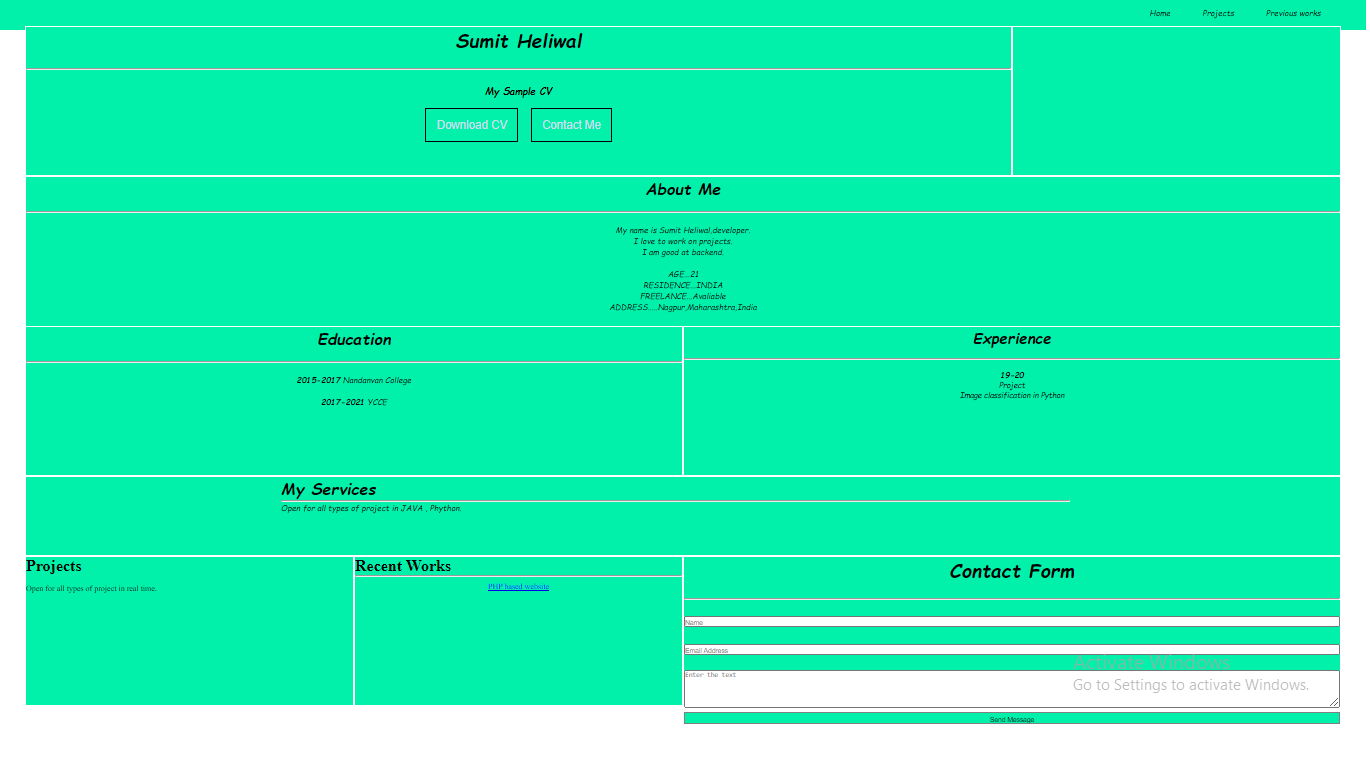
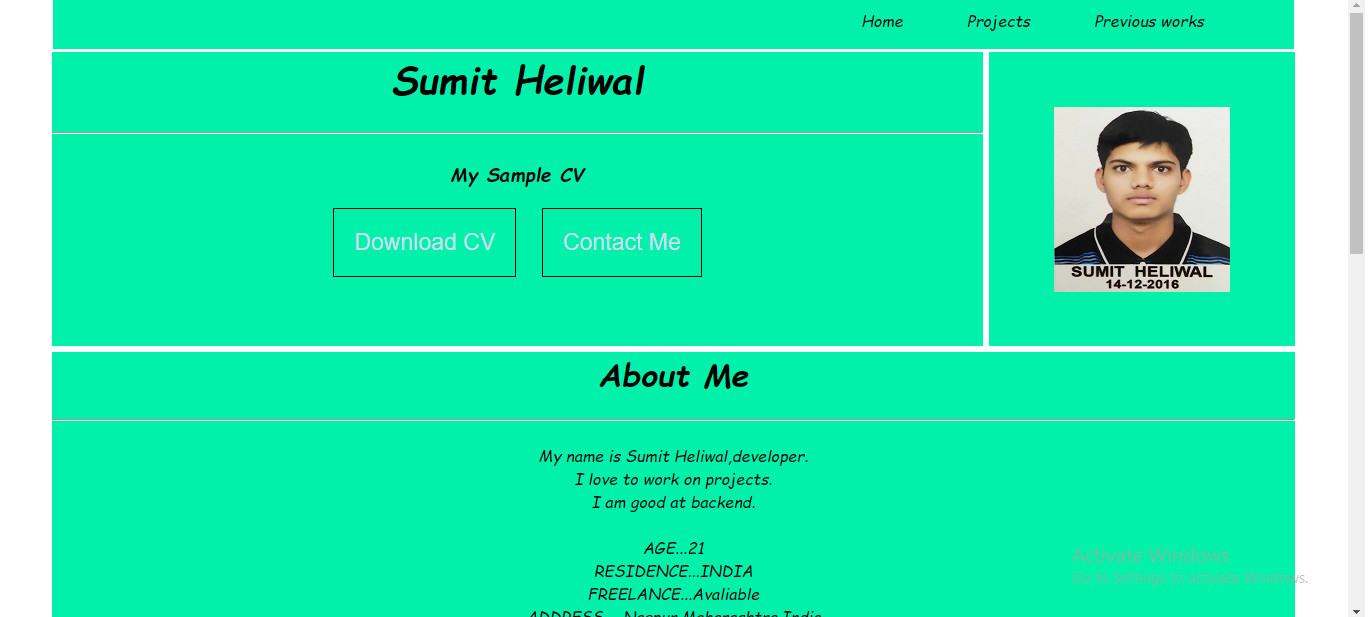
update 6

Changed region(s): [[0.0, 0.0, 1.0, 1.0]]

diff --git a/Task6/style.css b/Task6/style.css
@@ -5,9 +5,12 @@
 }
 #navset{
 
-    width: 100%;
+    width: 92%;
     height: 660px;
     padding: 0px;
+    margin-left: 54px;
+    margin-right: 48px;
+    align-self: center;
     
 }
 nav{
@@ -15,6 +18,7 @@ nav{
     height: 60px;
     background-color:rgb(1, 240, 170);
     line-height: 50px;
+
 }
 nav ul{
     float:right;
@@ -47,7 +51,7 @@ nav ul li a{
     align-content: center;
 }
 .item{
-    background-color: rgb(1, 240, 170);
+    background: rgb(1, 240, 170);
     border: 3px solid white;
     padding:0px;
     
@@ -109,10 +113,12 @@ button{
     font-family: cursive;
     font-weight: 100;
 }
-.image{
-    
-    max-width: 100%;
+.picture{
+    background-image: url(sumit.jpg);
     height: auto;
+    background-position: center;
+    background-repeat: no-repeat;
+    background-size: all;
 
 }
 .degree{
@@ -160,6 +166,23 @@ img{
     text-align: center;
 
 }
+.project{
[1 lines of base64/hex data omitted]
+    height: 100%;
+    background-position: center;
+    background-repeat: no-repeat;
+    background-size: all;
+
+}
+.recentwork{
[1 lines of base64/hex data omitted]
+    height: 100%;
+    background-position: left;
+    background-repeat: no-repeat;
+    background-size: all;
+
+}
+
 input{
     width: 100%;
     height: 20%;

diff --git a/Task6/index.html b/Task6/index.html
@@ -83,26 +83,26 @@
                <hr>
                    <p>Open for all types of project in JAVA , Phython. </p>
             </div>
-            <div class = "item android">
+            <div class = "item">
 
-                <div class="develop">
+                <div class="project">
                     <h1>Projects</h1>
                     <br>
                     <p>Open for all types of project in real time. </p>
                 </div>
             </div>
 
-            <div class = "item recent">
+            <div class = "item recentwork">
                 <h1>Recent Works</h1>
                 <hr>
-                    <p style="text-align: center; margin-top: 10px;"><a href= 'sbb,66ghz.com'>PHP based website</a> </p>
+                    <p style="text-align: center; margin-top: 10px;"><a href= 'https://sbb.66ghz.com' target="">PHP based website</a> </p>
             </div>
             <div class = "item form">
                 <h1 >Contact Form</h1>
                 <br><hr><br>
                 <form >
-                    <div><input type="text" name="Name" placeholder="Name"></div><br>
-                    <div><input type="text" name="Contact" placeholder="Email Address"></div><br>
+                    <input type="text" name="Name" placeholder="Name"><br>
+                    <input type="text" name="Contact" placeholder="Email Address"><br>
                     <div class="textfield"><textarea name="Topic" placeholder="Enter the text" style="height: 75px; width: 100%;" ></textarea></div>
                     <div class="submit"><input type="submit" value="Send Message"></div>
                 </form>
